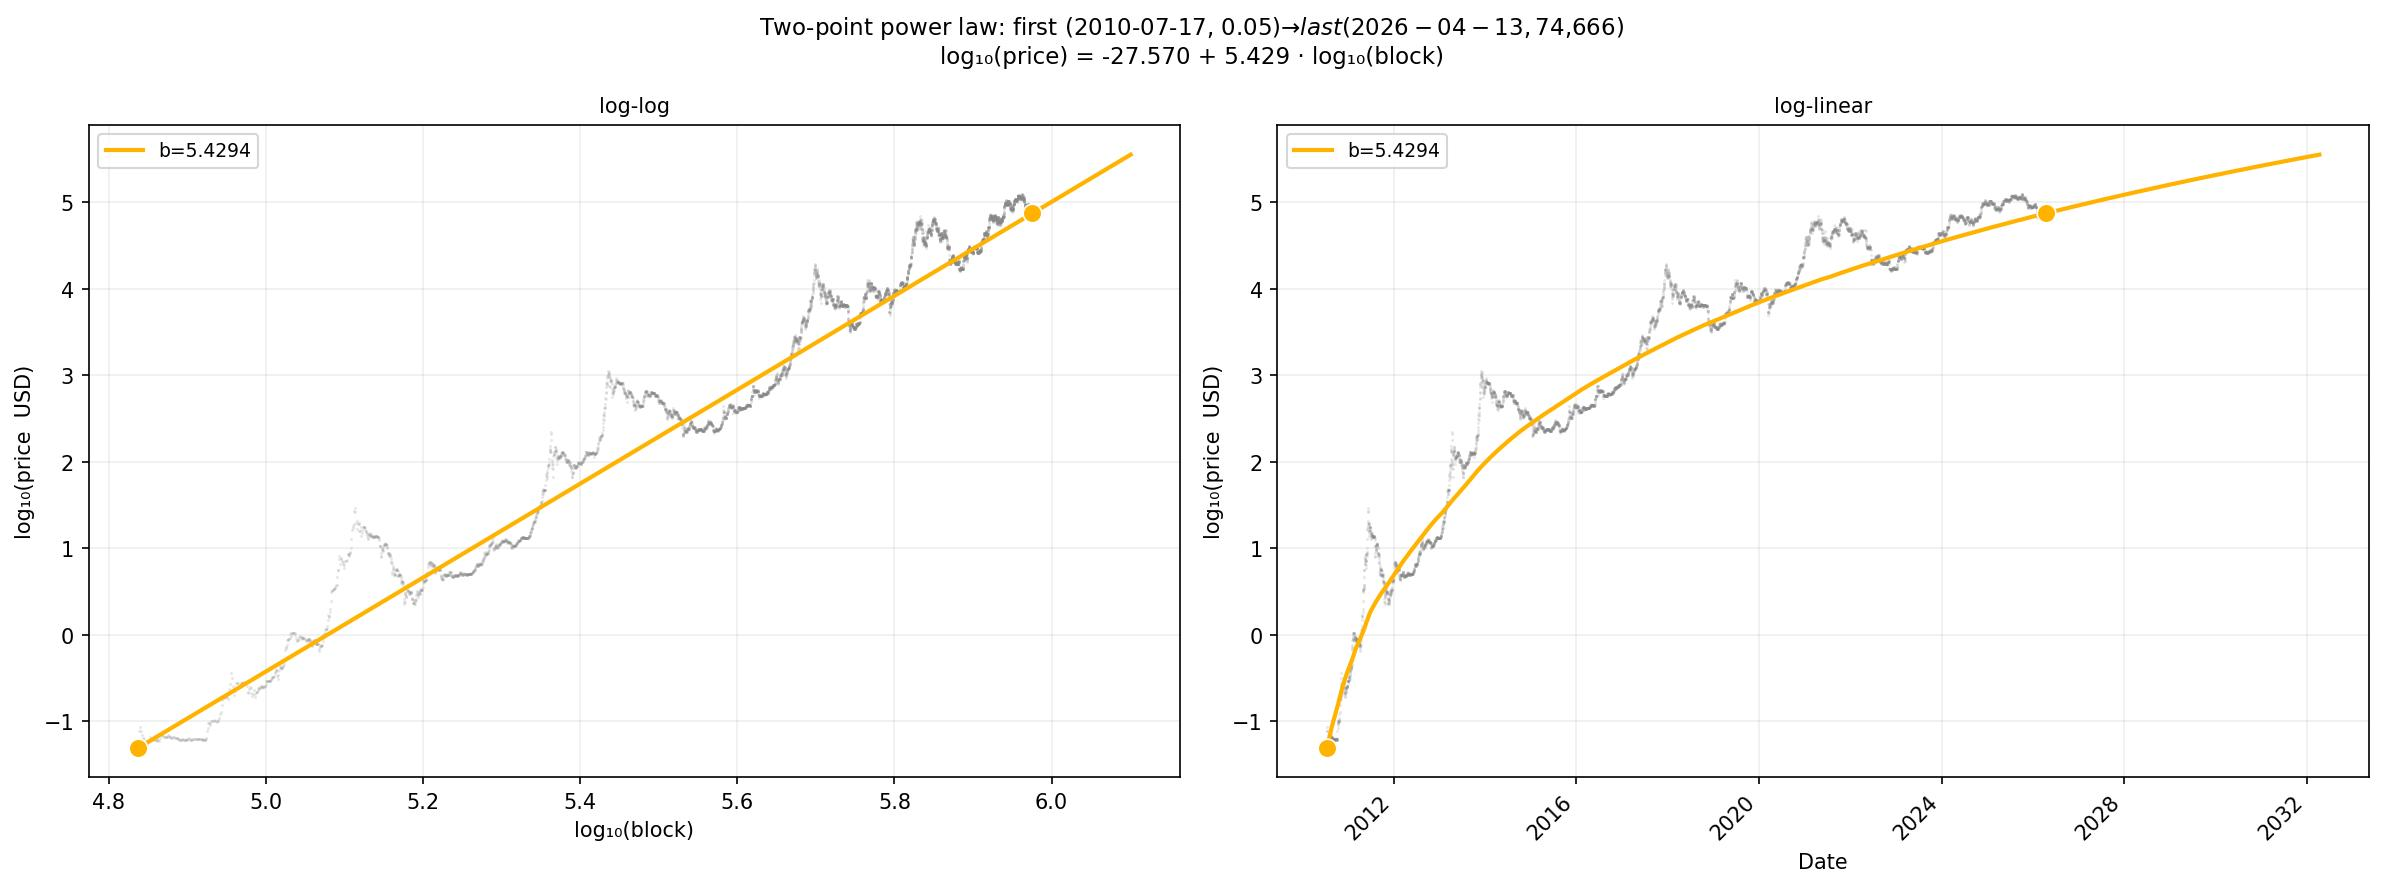
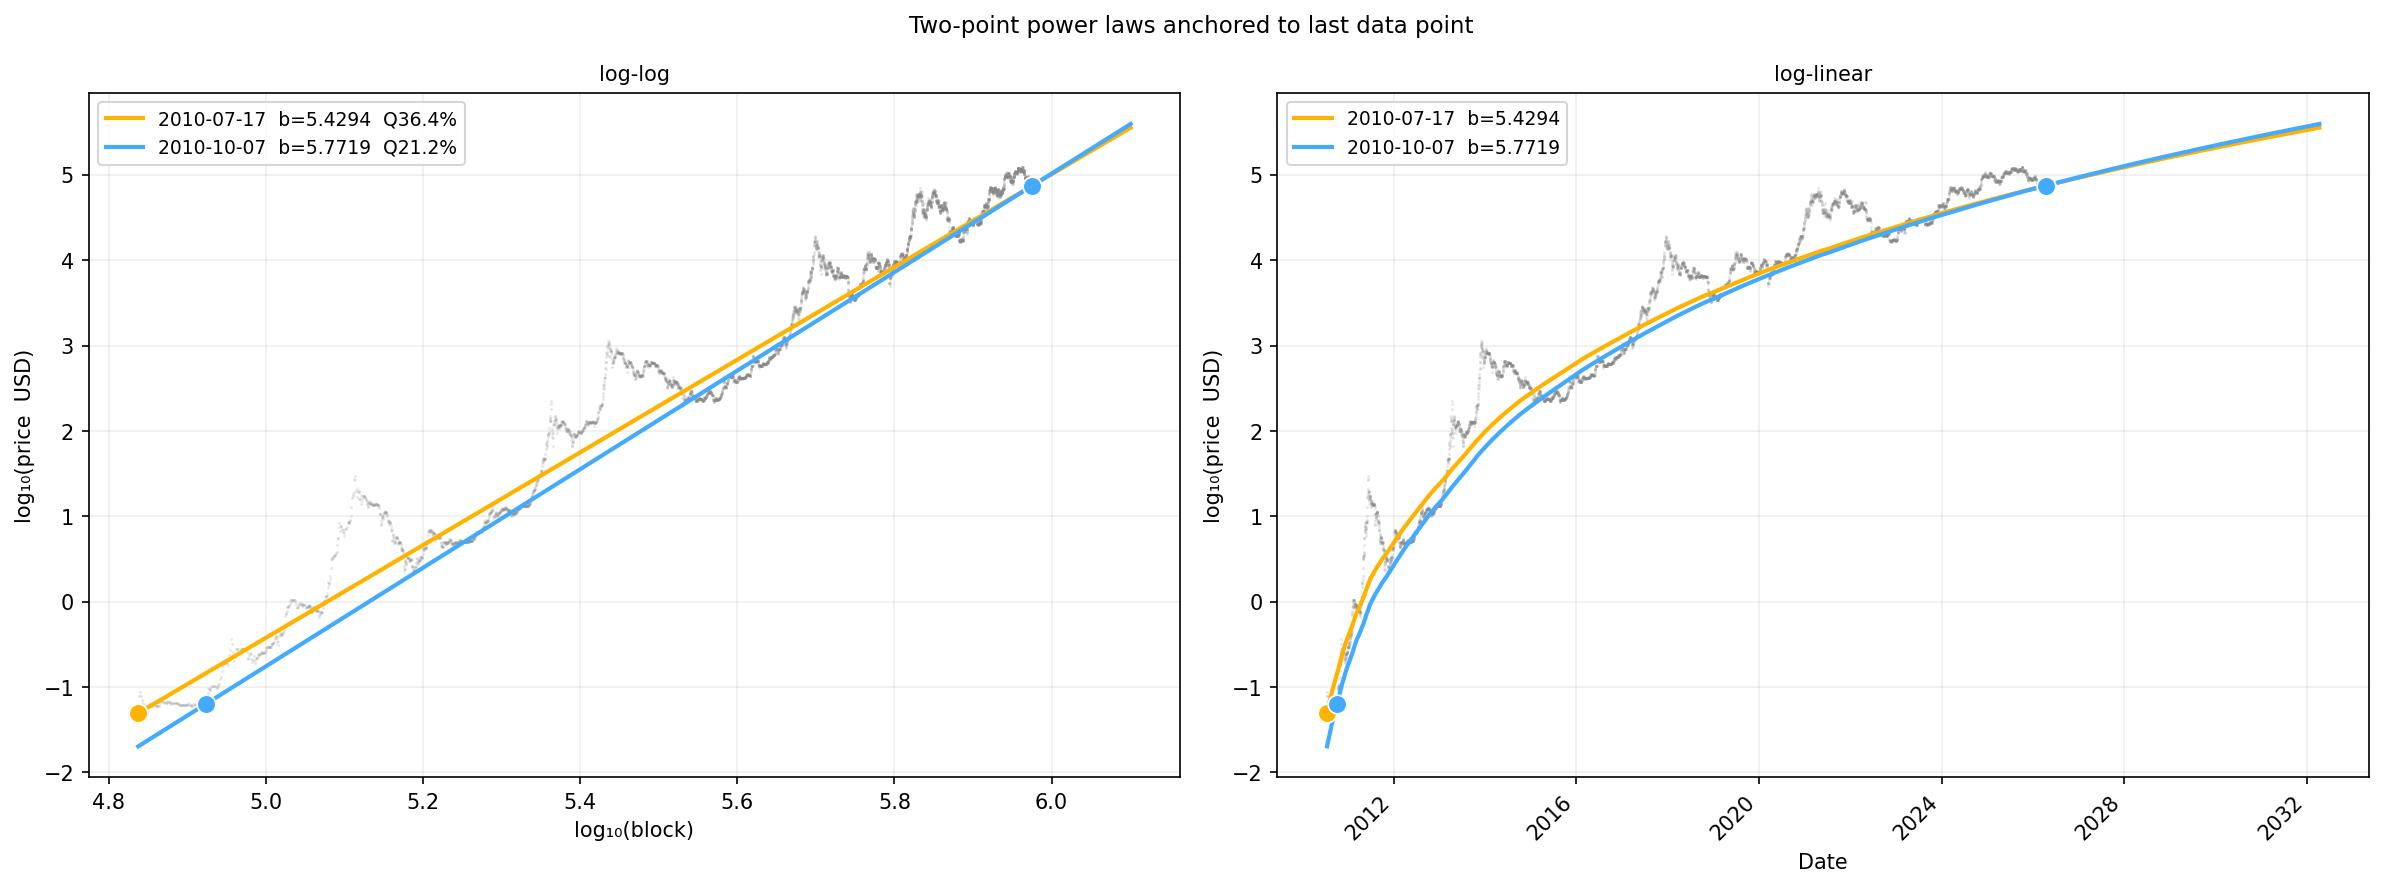
feat(research): two-point power law — both anchor dates on same plot

diff --git a/tools/two_point_power_law.py b/tools/two_point_power_law.py
@@ -19,66 +19,72 @@ LOG_P = np.log10(df["Price"].values)
 BLK   = df["blockheight"].values.astype(np.float64)
 DATES = mdates.date2num(df["date"].values.astype("datetime64[ms]").astype(object))
 
-first, last = df.iloc[0], df.iloc[-1]
-lp1, lb1 = np.log10(first["Price"]), np.log10(first["blockheight"])
-lp2, lb2 = np.log10(last["Price"]),  np.log10(last["blockheight"])
-b = (lp2 - lp1) / (lb2 - lb1)
-a = lp1 - b * lb1
+last = df.iloc[-1]
+lp2, lb2 = np.log10(last["Price"]), np.log10(last["blockheight"])
 
-print(f"First: {first['date'].date()}  block={first['blockheight']:,.0f}  ${first['Price']:.2f}")
-print(f"Last:  {last['date'].date()}   block={last['blockheight']:,.0f}  ${last['Price']:,.2f}")
-print(f"log10(price) = {a:.4f} + {b:.4f} * log10(block)")
+LINES = [
+    dict(row=df.iloc[0],                                          color="#FFB300"),
+    dict(row=df[df["date"] == pd.Timestamp("2010-10-07")].iloc[0], color="#44AAFF"),
+]
 
-# extend line ~6 years into future
+# extend ~6 years into future
 blocks_per_day = np.diff(BLK[-60:]).mean()
-blk_future = BLK[-1] + 365 * 6 * blocks_per_day
-blk_line = np.linspace(BLK[0], blk_future, 800)
-log_price_line = a + b * np.log10(blk_line)
-
-# date grid for log-linear panel
-date_per_blk = np.diff(DATES[-60:]).mean() / np.diff(BLK[-60:]).mean()
-date_line = np.where(
+date_per_blk   = np.diff(DATES[-60:]).mean() / np.diff(BLK[-60:]).mean()
+blk_future     = BLK[-1] + 365 * 6 * blocks_per_day
+blk_line       = np.linspace(BLK[0], blk_future, 800)
+date_line_full = np.where(
     blk_line <= BLK[-1],
     np.interp(blk_line, BLK, DATES),
     DATES[-1] + (blk_line - BLK[-1]) * date_per_blk,
 )
 
 fig, axes = plt.subplots(1, 2, figsize=(16, 6))
-fig.suptitle(
-    f"Two-point power law: first ({first['date'].date()}, ${first['Price']:.2f}) "
-    f"→ last ({last['date'].date()}, ${last['Price']:,.0f})\n"
-    f"log₁₀(price) = {a:.3f} + {b:.3f} · log₁₀(block)",
-    fontsize=11,
-)
-
-LINE_COLOR = "#FFB300"
+fig.suptitle("Two-point power laws anchored to last data point", fontsize=11)
 
 # ── log-log ───────────────────────────────────────────────────────────────────
 ax = axes[0]
 ax.scatter(np.log10(BLK), LOG_P, s=2, c="#888", alpha=0.2, linewidths=0, rasterized=True)
-ax.plot(np.log10(blk_line), log_price_line, color=LINE_COLOR, lw=2.0,
-        label=f"b={b:.4f}")
-ax.scatter([lb1, lb2], [lp1, lp2], s=80, color=LINE_COLOR, zorder=5,
-           edgecolors="white", linewidths=0.8)
+
+for cfg in LINES:
+    row = cfg["row"]; col = cfg["color"]
+    lp1, lb1 = np.log10(row["Price"]), np.log10(row["blockheight"])
+    b = (lp2 - lp1) / (lb2 - lb1)
+    a = lp1 - b * lb1
+    below = np.mean(LOG_P < a + b * np.log10(BLK))
+    label = f"{row['date'].date()}  b={b:.4f}  Q{below*100:.1f}%"
+    ax.plot(np.log10(blk_line), a + b * np.log10(blk_line), color=col, lw=2.0, label=label)
+    ax.scatter([lb1, lb2], [lp1, lp2], s=80, color=col, zorder=5,
+               edgecolors="white", linewidths=0.8)
+    print(f"{row['date'].date()}: log10(p) = {a:.4f} + {b:.4f}*log10(blk)  Q{below*100:.1f}% below")
+
 ax.set_xlabel("log₁₀(block)", fontsize=10)
 ax.set_ylabel("log₁₀(price  USD)", fontsize=10)
 ax.set_title("log-log", fontsize=10)
-ax.legend(fontsize=9)
+ax.legend(fontsize=9, loc="upper left")
 ax.grid(True, alpha=0.2)
 
 # ── log-linear ────────────────────────────────────────────────────────────────
 ax = axes[1]
 ax.scatter(DATES, LOG_P, s=2, c="#888", alpha=0.2, linewidths=0, rasterized=True)
-ax.plot(date_line, log_price_line, color=LINE_COLOR, lw=2.0, label=f"b={b:.4f}")
-ax.scatter([DATES[0], DATES[-1]], [lp1, lp2], s=80, color=LINE_COLOR, zorder=5,
-           edgecolors="white", linewidths=0.8)
+
+date_idx = {row["date"]: np.interp(row["blockheight"], BLK, DATES) for cfg in LINES for row in [cfg["row"]]}
+for cfg in LINES:
+    row = cfg["row"]; col = cfg["color"]
+    lp1, lb1 = np.log10(row["Price"]), np.log10(row["blockheight"])
+    b = (lp2 - lp1) / (lb2 - lb1)
+    a = lp1 - b * lb1
+    ax.plot(date_line_full, a + b * np.log10(np.maximum(blk_line, 1)),
+            color=col, lw=2.0, label=f"{row['date'].date()}  b={b:.4f}")
+    ax.scatter([date_idx[row["date"]], DATES[-1]], [lp1, lp2], s=80, color=col,
+               zorder=5, edgecolors="white", linewidths=0.8)
+
 ax.xaxis.set_major_formatter(mdates.DateFormatter("%Y"))
 ax.xaxis.set_major_locator(mdates.YearLocator(4))
 plt.setp(ax.xaxis.get_majorticklabels(), rotation=45, ha="right")
 ax.set_xlabel("Date", fontsize=10)
 ax.set_ylabel("log₁₀(price  USD)", fontsize=10)
 ax.set_title("log-linear", fontsize=10)
-ax.legend(fontsize=9)
+ax.legend(fontsize=9, loc="upper left")
 ax.grid(True, alpha=0.2)
 
 fig.tight_layout()
